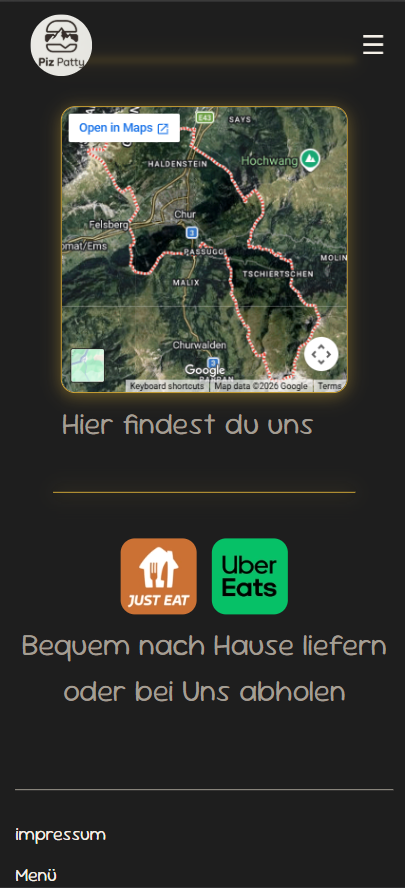
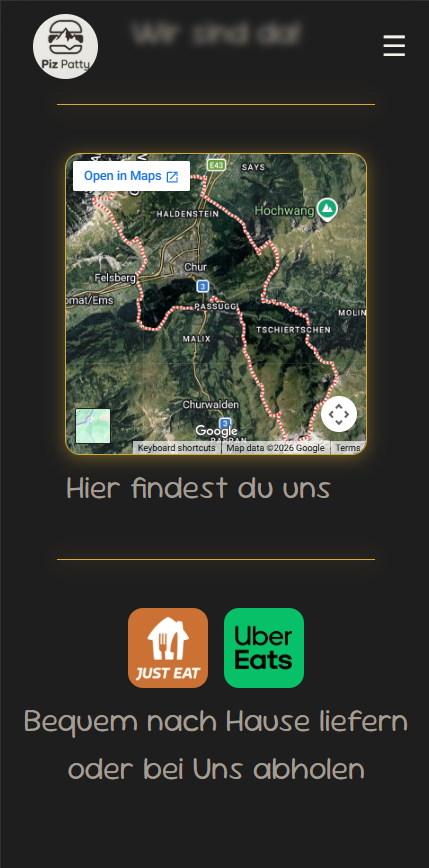
added some content to detailpage

diff --git a/src/data/projects.js b/src/data/projects.js
@@ -1,9 +1,10 @@
 import pizDesktop from "../assets/piz-patty/piz-desktop-1.png";
 import pizMobile from "../assets/piz-patty/piz-mobile-1.png";
+import pizMobile2 from "../assets/piz-patty/piz-mobile-2.png";
 import pizFeatures from "../assets/piz-patty/piz-desktop-2.png";
 import pizMenu from "../assets/piz-patty/piz-desktop-menu.png";
 
-import PizPattymockup from "../assets/piz-patty-mockup.webp"
+import PizPattymockup from "../assets/piz-patty-mockup.webp";
 
 export const projects = [
   {
@@ -14,7 +15,7 @@ export const projects = [
       "Eine Restaurant-Website mit Speisekarte, Reservierungsmöglichkeit und Google Maps Einbindung. Die Inhalte können vom Betreiber selbst gepflegt werden, ohne technische Vorkenntnisse.",
     tags: ["Astro", "Sanity CMS", "Responsive", "SEO"],
     liveUrl: "https://piz-patty.vercel.app",
-    mockup: PizPattymockup, 
+    mockup: PizPattymockup,
 
     desktop: {
       images: [
@@ -113,6 +114,20 @@ export const projects = [
             { x: 59, y: -1, label: "Hamburger Menü", right: true },
             { x: 35, y: 45, label: "CTA Buttons" },
             { x: 35, y: 61, label: "Öffnungszeiten" },
+          ],
+        },
+        {
+          src: pizMobile2,
+          alt: "Unterer Teil der Startseite",
+          description: [
+            {
+              title: "Google Maps und Food Order einbindung",
+              text: "Auch in der Mobilen ansicht sind die Einbindungen für Google Maps und die Bestellservices leicht zu finden.",
+            },
+          ],
+          highlights: [
+            { x: 35, y: 12, label: "Google Maps", right: true },
+            { x: 45, y: 65, label: "link zu Bestellservices" },
           ],
         },
       ],

diff --git a/src/components/project-details/ProjectDetails.jsx b/src/components/project-details/ProjectDetails.jsx
@@ -3,7 +3,7 @@ import Switch from "./MobileSwitch";
 import Accordion from "./Accordion.jsx"
 
 export default function ProjectDetails({ project, desktop, mobile }) {
-  const [isMobile, setIsMobile] = useState(false);
+  const [isMobile, setIsMobile] = useState(!false);
 
   function handleToggle() {
     setIsMobile((prev) => !prev);
